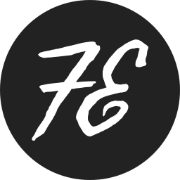
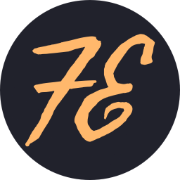
Updated theme

Changed region(s): [[0.1389, 0.1667, 0.8611, 0.8333]]

diff --git a/uno.config.ts b/uno.config.ts
@@ -7,7 +7,7 @@ import {
   transformerDirectives,
 } from 'unocss';
 
-const serif: any = { name: 'serif', provider: 'none' };
+// const serif: any = { name: 'serif', provider: 'none' };
 const sansSerif: any = { name: 'sans-serif', provider: 'none' };
 
 export default defineConfig({
@@ -36,8 +36,8 @@ export default defineConfig({
     presetWebFonts({
       provider: 'bunny',
       fonts: {
-        'body-1': [{ name: 'Open Sans' }, sansSerif],
-        header: [{ name: 'Georgia' }, serif],
+        'body-1': [{ name: 'Open' }, sansSerif],
+        header: [{ name: 'Fira Code' }, sansSerif],
       },
     }),
   ],
@@ -49,25 +49,25 @@ export default defineConfig({
       'icon-mac-cmd': 'i-fluent-key-command-24-regular',
       'icon-ctrl': 'i-fluent-control-button-24-regular',
       'icon-close': 'i-mdi-close',
-      'bg-base': 'bg-light dark:bg-dark',
-      'text-base-color': 'text-dark-200 dark:text-light-100',
+      'bg-base': 'bg-background',
+      'text-base': 'text-foreground',
       hoverable: 'transition-shadow @hover:bg-lighten',
       'bg-surface': 'bg-light-100 dark: dark:bg-dark',
       'if-disabled': 'disabled:bg-lighten disabled:text-gray',
       'core-btn':
-        'transition-colors cursor-pointer rounded-lg px-2 py-1 decoration-none hoverable flex items-center justify-center if-disabled',
+        'text-base transition-colors cursor-pointer rounded-lg px-2 py-1 decoration-none hoverable flex items-center justify-center if-disabled',
     },
     [
       /fe-border$|fe-border-(x|y|b|t|l|r)$/,
       ([, b]) => {
         const borderClass = b ? `border-${b}` : `border`;
-        return `${borderClass} ${borderClass}-gray-300 dark:${borderClass}-dark-300`;
+        return `${borderClass} ${borderClass}-light-selection dark:${borderClass}-dark-selection`;
       },
     ],
     [
-      /^(\w+)-primary$/,
-      ([, b]) =>
-        `${b}-primary-dark dark:${b}-primary-default ${
+      /^(\w+)-(primary|secondary|accent|error|link|selection|background|foreground|success)$/,
+      ([, b, c]) =>
+        `${b}-light-${c} dark:${b}-dark-${c} ${
           b !== 'text' ? 'text-light dark:text-dark' : ''
         }`,
     ],
@@ -76,17 +76,37 @@ export default defineConfig({
     [
       'bg-lighten',
       {
-        '-moz-box-shadow': 'inset 0 0 100px 100px rgba(151, 151, 151, 0.25)',
-        '-webkit-box-shadow': 'inset 0 0 100px 100px rgba(151, 151, 151, 0.25)',
-        boxShadow: 'inset 0 0 100px 100px rgba(151, 151, 151, 0.25)',
+        '-moz-box-shadow': 'inset 0 0 100px 100px rgba(68, 71, 90, 0.5)',
+        '-webkit-box-shadow': 'inset 0 0 100px 100px rgba(68, 71, 90, 0.5)',
+        boxShadow: 'inset 0 0 100px 100px rgba(68, 71, 90, 0.5)',
       },
     ],
   ],
   theme: {
     colors: {
-      primary: {
-        default: '#02FFD7',
-        dark: '#00757C',
+      dark: {
+        background: '#282a36',
+        foreground: '#f8f8f2',
+        selection: '#44475a',
+        accent: '#8be9fd',
+        success: '#50fa7b',
+        primary: '#ff79c6',
+        warning: '#ffb86c',
+        secondary: '#bd93f9',
+        error: '#ff5555',
+        link: '#f1fa8c',
+      },
+      light: {
+        background: '#ffffff',
+        foreground: '#000000',
+        selection: '#44475a',
+        link: '#8be9fd',
+        success: '#50fa7b',
+        primary: '#ff79c6',
+        warning: '#ffb86c',
+        secondary: '#bd93f9',
+        error: '#ff5555',
+        accent: '#f1fa8c',
       },
     },
   },

diff --git a/src/components/core/containers/CoreMdWrapper.vue b/src/components/core/containers/CoreMdWrapper.vue
@@ -10,11 +10,11 @@ defineProps<{
 <template>
   <div class="h-full">
     <article class="m-a min-h-full px-6 prose">
-      <div class="mb-10 py-10 fe-border-b">
+      <div class="fe-border-b mb-10 py-10">
         <h1 v-if="frontmatter.title" class="mb-5 text-center">
           {{ frontmatter.title.replace('- Freedom Evenden', '') }}
         </h1>
-        <p v-if="frontmatter.subtitle" class="text-center">
+        <p v-if="frontmatter.subtitle" class="text-center font-header">
           {{ frontmatter.subtitle }}
         </p>
         <div
@@ -23,13 +23,13 @@ defineProps<{
         >
           <p
             v-if="frontmatter.datePublished"
-            class="mb-0 font-header text-primary"
+            class="text-secondary mb-0 font-header"
           >
             {{ formatDate(frontmatter.datePublished) }}
           </p>
           <p
             v-if="frontmatter.dateUpdated"
-            class="text-color-op-75 my-0 font-header italic"
+            class="text-accent my-0 font-header"
           >
             Last Updated: {{ formatDate(frontmatter.dateUpdated) }}
           </p>

diff --git a/src/components/core/posts/CorePostListItem.vue b/src/components/core/posts/CorePostListItem.vue
@@ -18,13 +18,16 @@ const publishDate = computed(() =>
       :to="post.path"
       class="block pa-4 decoration-none"
     >
-      <p class="ma-none mb-0 text-2xl font-bold font-header italic">
+      <p class="text-link ma-none mb-0 text-2xl font-bold font-header">
         {{ post.title }}
       </p>
-      <p v-if="publishDate" class="my-0 text-sm font-header text-primary">
+      <p
+        v-if="publishDate"
+        class="my-0 text-sm font-header font-header text-primary"
+      >
         {{ publishDate }}
       </p>
-      <p v-if="post.description" class="my-0 text-op-75">
+      <p v-if="post.description" class="my-0 text-op-75 font-header">
         {{ post.description }}
       </p>
     </RouterLink>

diff --git a/src/components/projects/ProjectListItem.vue b/src/components/projects/ProjectListItem.vue
@@ -14,13 +14,13 @@ defineProps<{
       target="_blank"
       rel="noopener"
     >
-      <p class="ma-none mb-0 text-2xl font-bold font-header italic">
+      <p class="text-link ma-none mb-0 text-2xl font-bold font-header">
         {{ project.name }}
       </p>
-      <p class="my-0 text-sm font-header text-primary">
+      <p class="my-0 text-sm font-header font-header text-primary">
         {{ project.role }}
       </p>
-      <p class="my-0 text-op-75">{{ project.description }}</p>
+      <p class="my-0 text-op-75 font-header">{{ project.description }}</p>
     </a>
   </li>
 </template>

diff --git a/src/styles/main.css b/src/styles/main.css
@@ -1,9 +1,9 @@
 html {
-  --at-apply: bg-light scroll-smooth;
+  --at-apply: bg-light-background scroll-smooth;
 }
 
 html.dark {
-  --at-apply: bg-dark;
+  --at-apply: bg-dark-background;
 }
 
 body {
@@ -12,13 +12,17 @@ body {
   overflow-x: hidden;
 }
 
-h1,
+h1 {
+  --at-apply: font-header text-primary;
+}
+
+
 h2,
 h3,
 h4,
 h5,
 h6 {
-  --at-apply: font-header;
+  --at-apply: font-header text-success;
 }
 
 details {

diff --git a/src/components/core/CoreBtn.vue b/src/components/core/CoreBtn.vue
@@ -35,7 +35,6 @@ const isActive = computed(() => props.active || link?.isActive);
     class="relative core-btn"
     :class="{
       'bg-primary': isActive && !underline && !noBg,
-      'text-on-primary-default': isActive && !underline && !noBg,
     }"
     :disabled="isActive || disabled"
     @click="link?.navigate"

diff --git a/index.html b/index.html
@@ -38,7 +38,7 @@
       checkThemePreference();
     </script>
   </head>
-  <body class="text-base-color relative overflow-y-scroll">
+  <body class="text-base relative overflow-y-scroll">
     <div id="app"></div>
     <script type="module" src="/src/main.ts"></script>
   </body>

diff --git a/src/styles/markdown.css b/src/styles/markdown.css
@@ -1,6 +1,6 @@
 .markdown-body p a,
 .markdown-body li a:not(.block) {
-  --at-apply: text-primary;
+  --at-apply: text-link;
 }
 
 .markdown-body pre {
